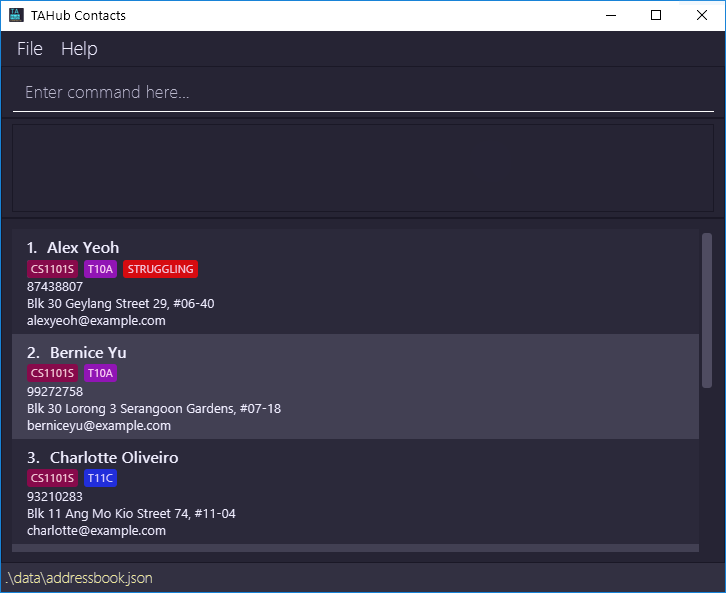
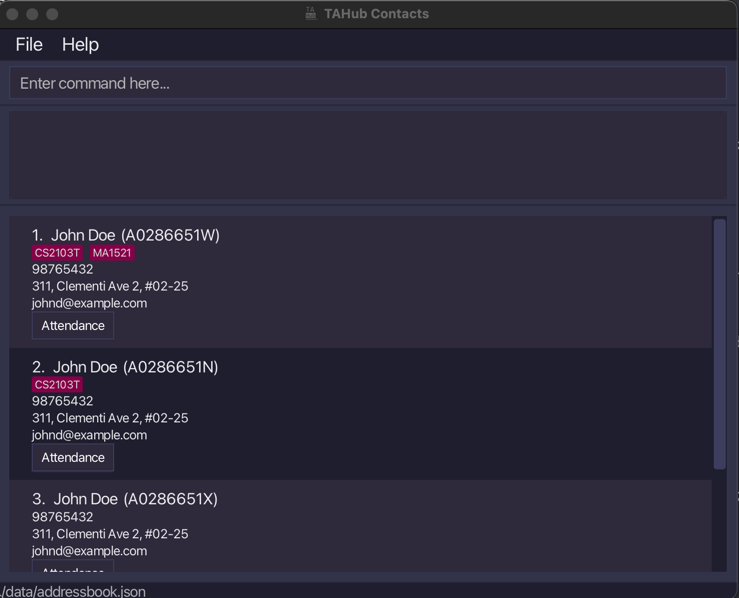
Correct UG

Changed region(s): [[0.0, 0.0, 1.0, 1.0], [0.0, 0.3339, 0.0303, 0.3946], [0.9697, 0.9713, 1.0, 1.0]]

diff --git a/docs/UserGuide.md b/docs/UserGuide.md
@@ -6,12 +6,42 @@
 
 # TAHub Contacts User Guide
 
-AddressBook Level 3 (AB3) is a **desktop app for managing contacts, optimized for use via a  Line Interface** (CLI) while still having the benefits of a Graphical User Interface (GUI). If you can type fast, AB3 can get your contact management tasks done faster than traditional GUI apps.
+If you are a busy **Computer Science Student** juggling Teaching Assistant roles and struggling to keep track of your 
+many students, TAHub Contacts is a desktop application for you to easily manage your student contact details!
 
-<!-- * Table of Contents -->
-<page-nav-print />
+While it has a GUI (Graphical User Interface), most of the user interactions happen using a CLI 
+(Command Line Interface) with typed commands. A perfect fit if you’re already a wizard at the keyboard.
 
 --------------------------------------------------------------------------------------------------------------------
+## Table of Contents 
+- [Quick Start 🚀](#quick-start)
+- [Features 💻](#features)
+
+
+* Viewing help : [`help`](#viewing-help--help)
+* Listing all students : [`list`](#listing-all-persons--list)
+* Clearing all entries : [`clear`](#clearing-all-entries--clear)
+* Adding a student : [`add-student`](#adding-a-person-add)
+* Editing a student : [`edit-student`](#editing-a-person--edit)
+* Finding a student: [`find-student`](#locating-persons-by-name-find)
+* Deleting a student : [`delete-student`](#deleting-a-person--delete)
+* Adding a course: [`add-course`](#)
+* Editing a course: [`edit-course`](#)
+* Deleting a course : [`delete-course`](#)
+* Adding a course tutorial : [`add-tutorial`](#)
+* Deleting a course tutorial : [`delete-tutorial`](#)
+* Enrolling a student : [`enroll`](#)
+* Unenrolling a student : [`unenroll`](#)
+* Marking attendance : [`attend-present`](#)
+* Marking absence : [`attend-absent`](#)
+* Clear attendance : [`attend-clear`](#)
+* Exiting the program : [`exit`](#exiting-the-program--exit)
+* [Saving the data 💾](#saving-the-data)
+* ADVANCED: Editing the data file
+
+- [FAQ ❔](#faq)
+- [Known Issues 🐛](#known-issues)
+- [Command Summary 🧭](#command-summary)
 
 ## Quick start
 
